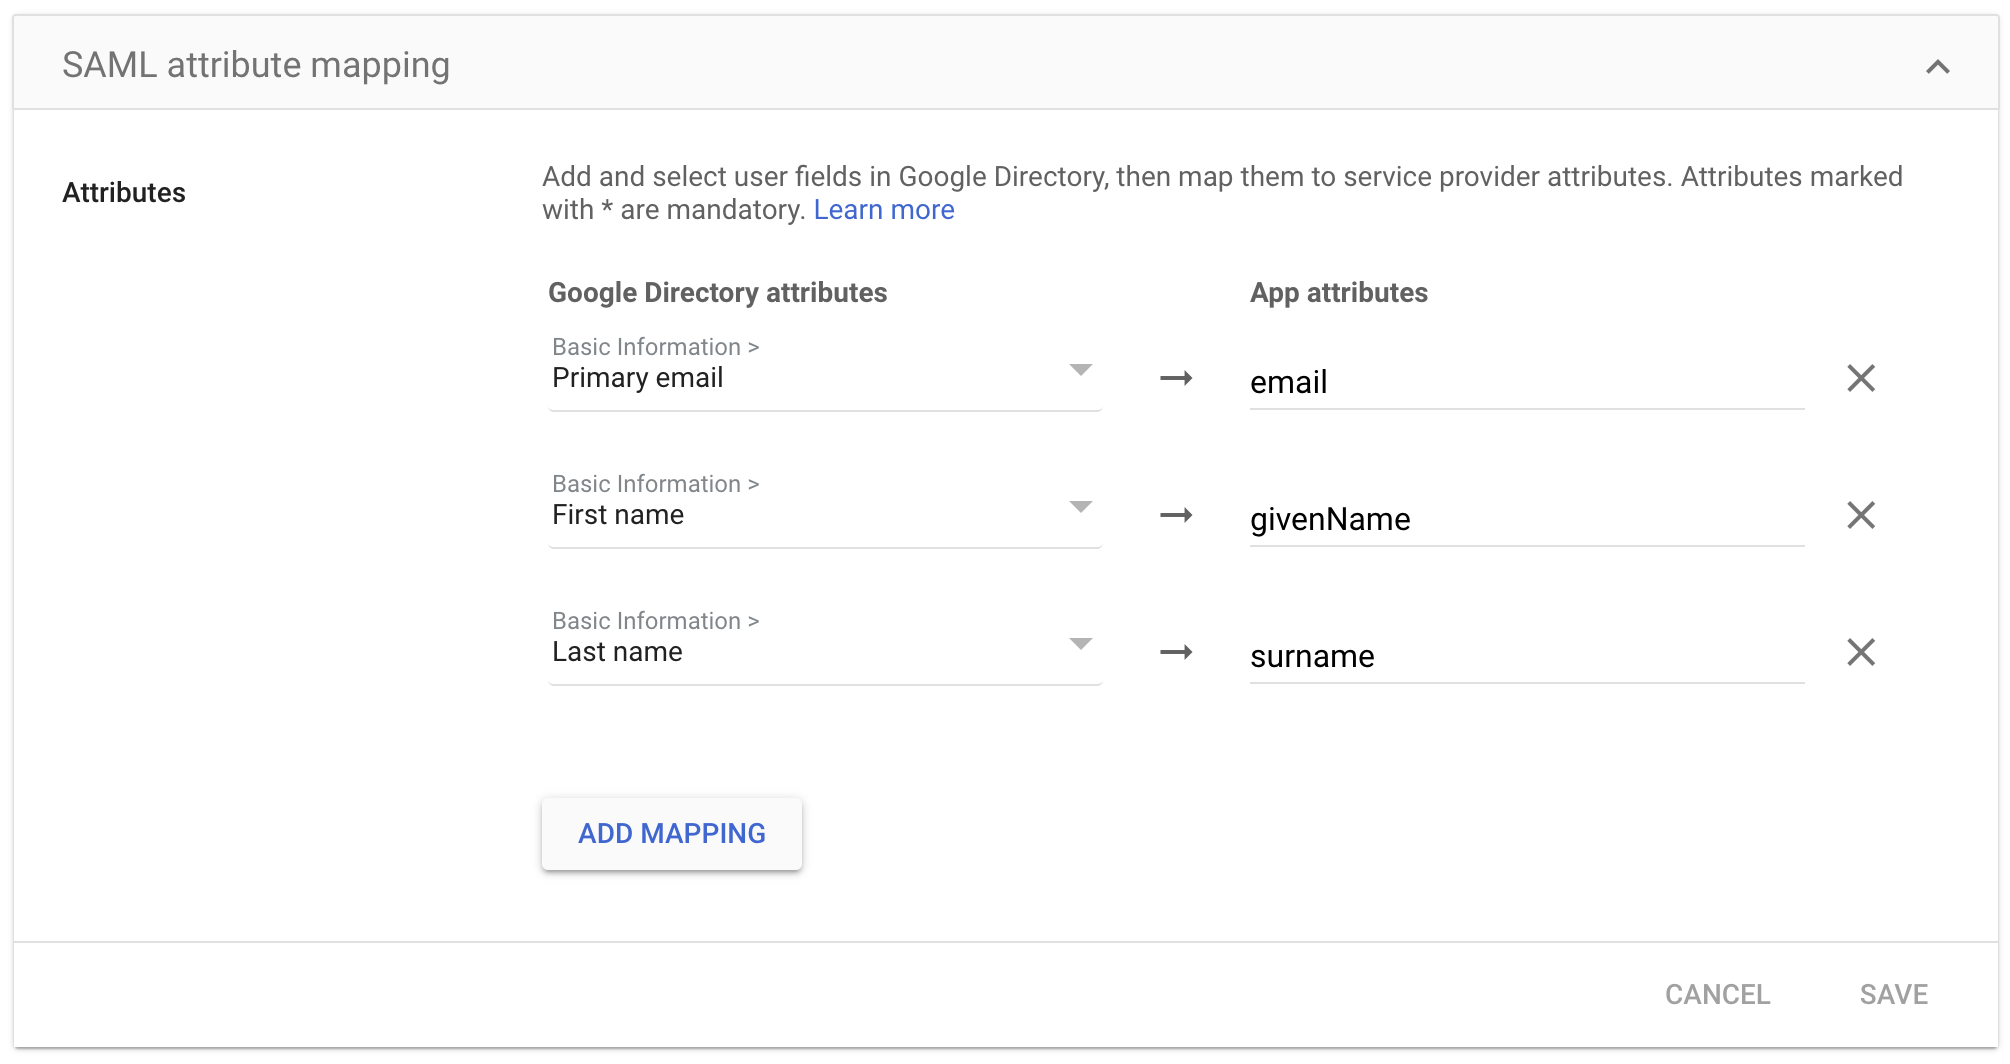
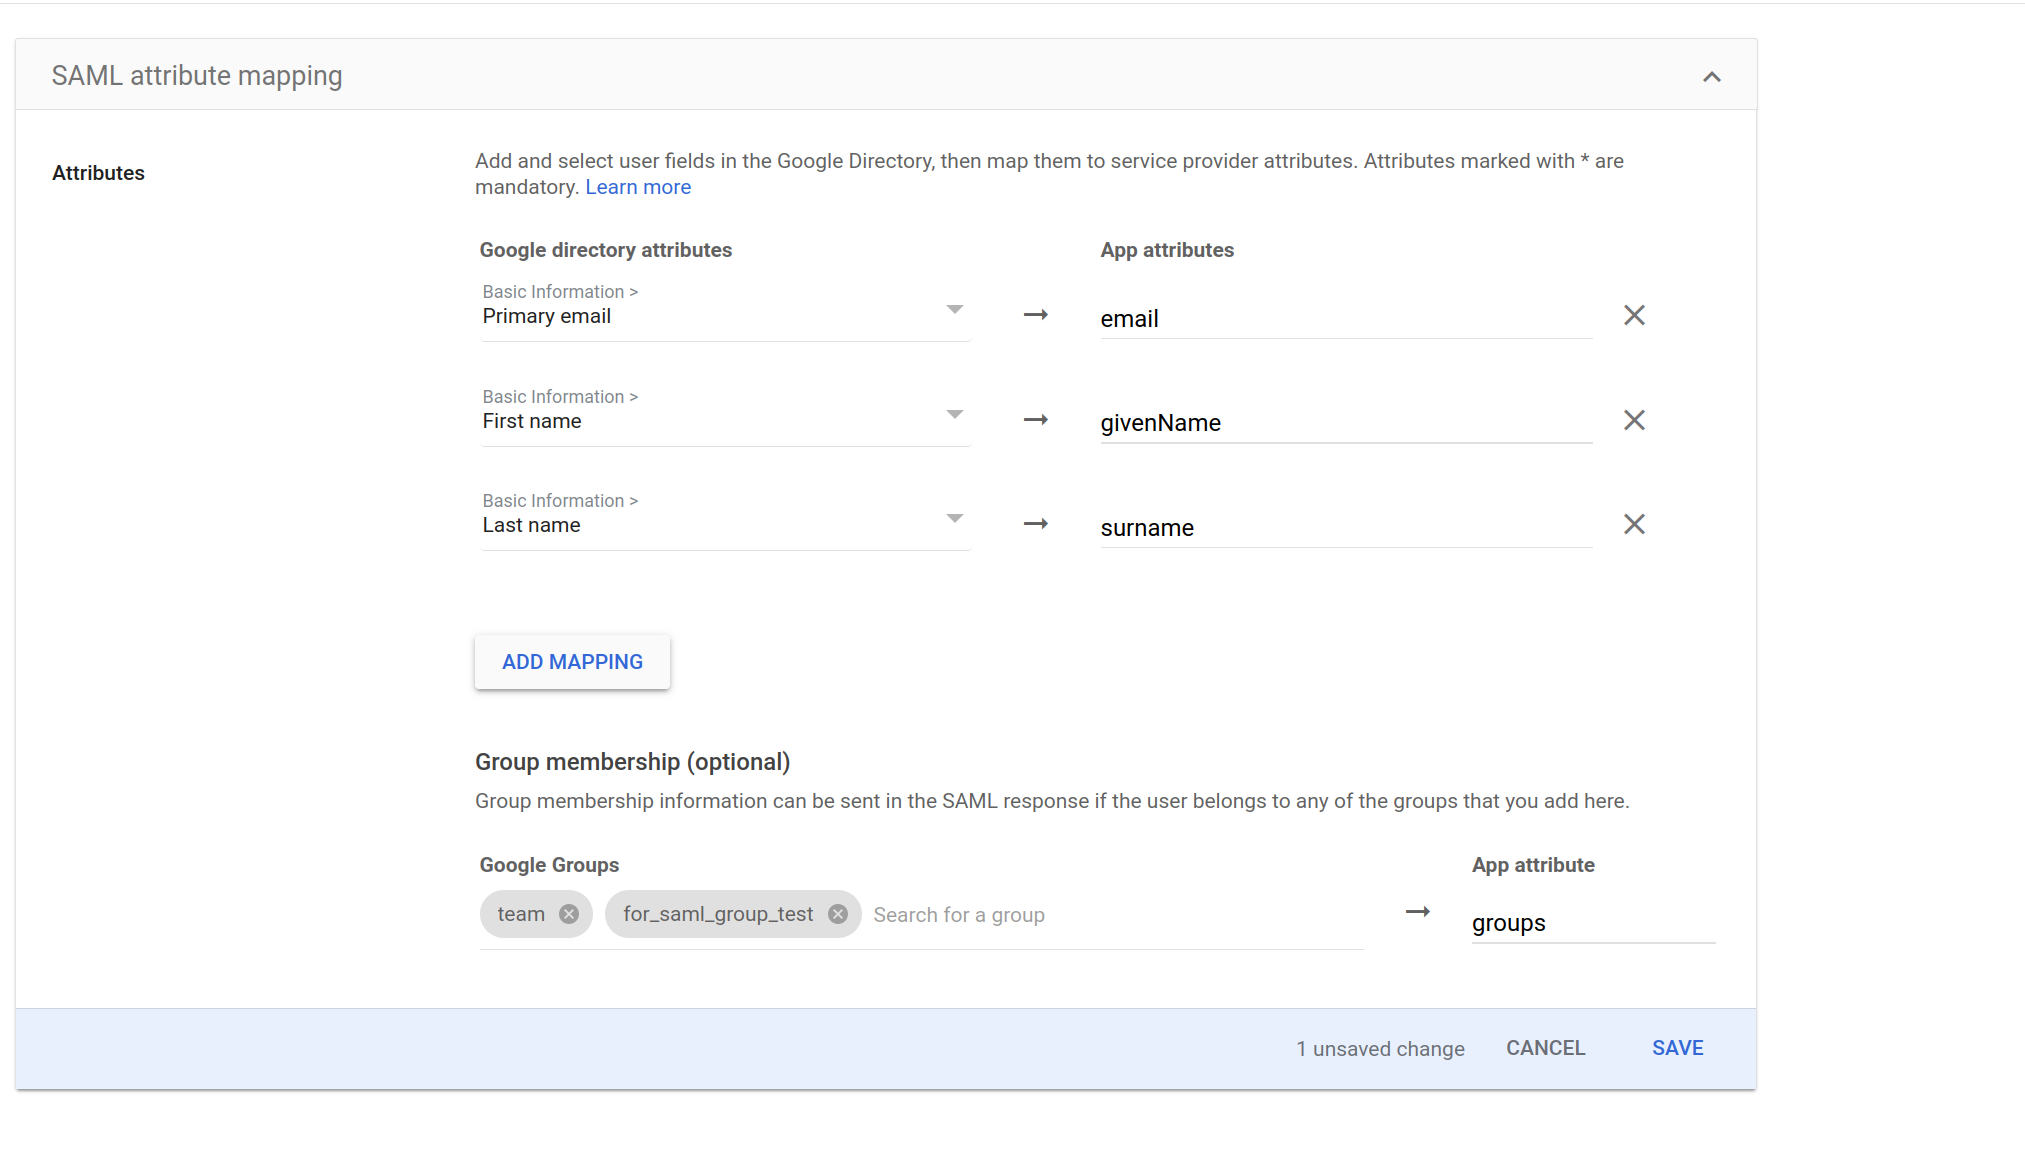
better docs

diff --git a/docs/deployment/authentication.md b/docs/deployment/authentication.md
@@ -96,8 +96,36 @@ Here's an example configuration from Google's SAML app creation flow.
 
 ## SAML Group Sync
 
-This allows a user to be added or removed from a Flagsmith group on login. To use this, you will have to create a group
-in flagsmith with the same `external_id` as your SAML `group_id` that needs to sync.
+You can configure flagsmith to add or remove a user from a group (on login) based on your SAML response.
+
+E.g: let's assume you have a group named `team` in your system and whenever a user logs in into flagsmith you want
+either that user to be added (if the group is part of relevant SAML attribute, but the user is not already part of the
+group) to the equivalent flagsmith group or be removed (if the group is not part of the relevant SAML attribute, but the
+user is part of the group) from it.
+
+### Configuration
+
+To configure this, you need to create an equivalent group in flagsmith using the SAML name of the group as External ID.
+e.g: if your SAML attribute looks like the below xml snippet (and you want the `team` group to be synced):
+
+```xml
+			<saml2:Attribute Name="groups">
+				<saml2:AttributeValue
+					xmlns:xs="http://www.w3.org/2001/XMLSchema"
+					xmlns:xsi="http://www.w3.org/2001/XMLSchema-instance" xsi:type="xs:anyType">team
+				</saml2:AttributeValue>
+				<saml2:AttributeValue
+					xmlns:xs="http://www.w3.org/2001/XMLSchema"
+					xmlns:xsi="http://www.w3.org/2001/XMLSchema-instance" xsi:type="xs:anyType">for_saml_group_test
+				</saml2:AttributeValue>
+			</saml2:Attribute>
+
+
+```
+
+Then you need to create an equivalent group in the flagsmith that will look like this:
+
+<div style={{textAlign: 'center'}}><img width="75%" src="/img/saml-group-sync-external-id.png"/></div>
 
 ## OAuth
 
